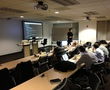
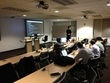
New news story; Changed the way thumbnails are cropped

diff --git a/_plugins/news_data_generator.rb b/_plugins/news_data_generator.rb
@@ -26,7 +26,7 @@ module Jekyll
         if post.data['images']
           frontImg = post.data['images'].first
           img = Image.read(File.dirname(__FILE__) + "/.." + frontImg['url'])
-          thumb = img.first.resize_to_fill(110, 90)
+          thumb = img.first.resize_to_fit(110, 90)
 
           url = frontImg['url']
           new_fname = url.chomp(File.extname(url)) + "_thumb" + File.extname(url)

diff --git a/news/_posts/2013-04-16-near-infinity-named-one-of-greater.md b/news/_posts/2013-04-16-near-infinity-named-one-of-greater.md
@@ -1,0 +1,35 @@
+---
+title: "Near Infinity named one of Greater Washington, D.C. area’s best places to work"
+images:
+  -
+    url: /news/assets/awe.png
+    alt: "Alliance for Workplace Excellence"
+    caption: ""
+---
+For the third year in a row, Near Infinity has been given the
+Workplace Excellence Seal of Approval from the Alliance for Workplace
+Excellence, an award honoring the best places to work in the Greater
+Washington, D.C. area. The award recognizes excellence in eight core
+areas:
+
+<ul class="news-list">
+  <li>Innovative corporate culture and management practices</li>
+  <li>Family and employee friendly policies and programs</li>
+  <li>Strong health and wellness initiatives</li>
+  <li>Employee growth and learning opportunities</li>
+  <li>Commitment to corporate, social and civic responsibility</li>
+  <li>Diversity and inclusion practices</li>
+  <li>Flexible work environment</li>
+  <li>Safety and security</li>
+</ul>
+
+The Alliance for Workplace Excellence will host their Annual Awards
+Luncheon on May 15, 2013, from 12 p.m. to 2 p.m. at the Bethesda North
+Marriott Hotel and Conference Center.  Sixty-eight businesses will be
+honored at the event, and more than 400 area business executives are
+expected to attend.
+
+All award recipients undergo a rigorous assessment process led by an
+independent review panel of professors, PhD professionals, and
+doctoral candidates in business, industrial and organizational
+psychology, and human resources.
